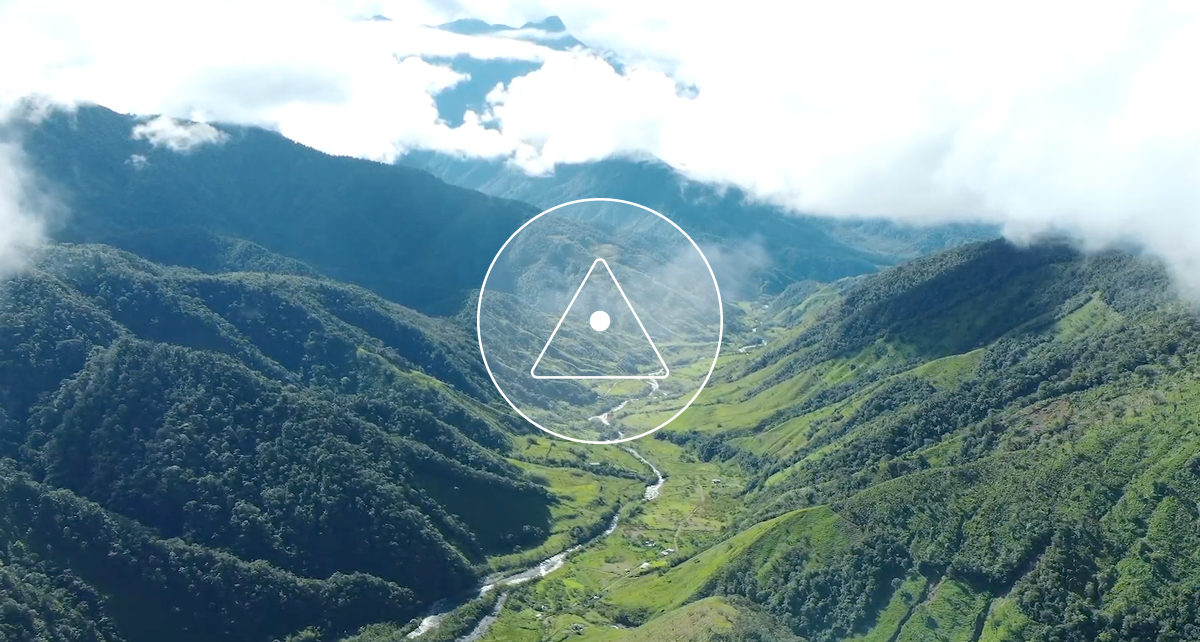
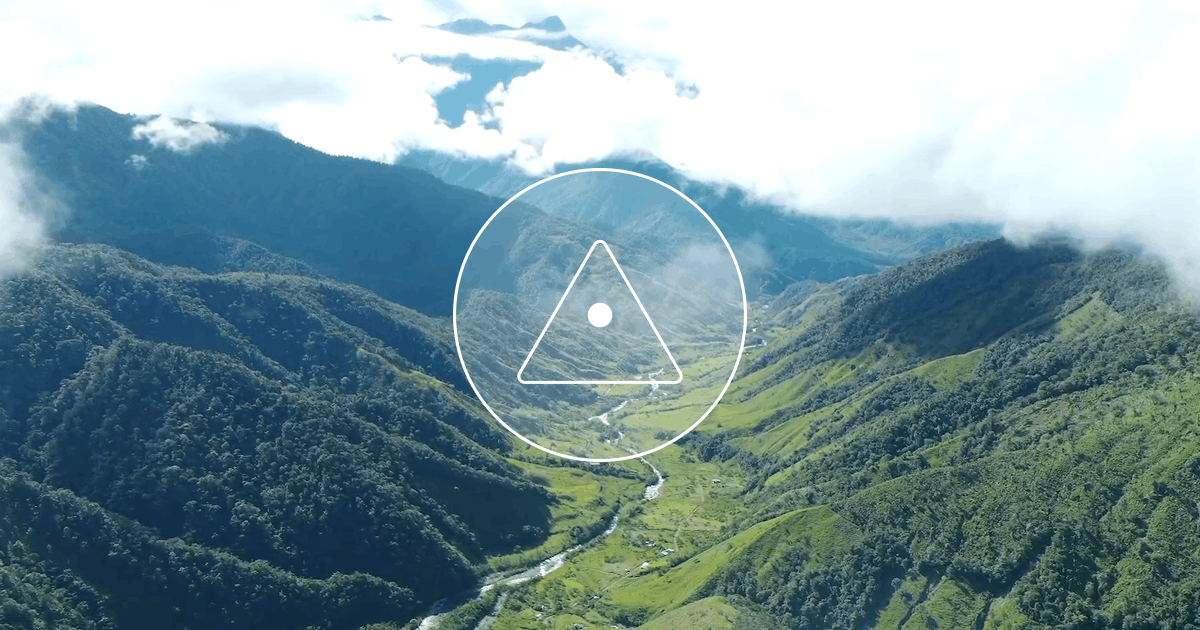
fix(seo): use optimized 1200x630 og image and restore DE description

diff --git a/lib/seo/canonical.ts b/lib/seo/canonical.ts
@@ -3,7 +3,7 @@ import { locales, defaultLocale, type Locale } from '@/lib/i18n/config';
 const FALLBACK_SITE_URL = 'https://www.senderobiketrails.com';
 
 export const ogImages = [
-  { url: '/opengraph-image.png', width: 1200, height: 642, alt: 'Sendero Bike Trails' },
+  { url: '/opengraph-image.png', width: 1200, height: 630, alt: 'Sendero Bike Trails' },
 ];
 
 export function getSiteUrl(): string {
